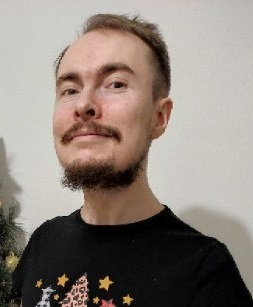
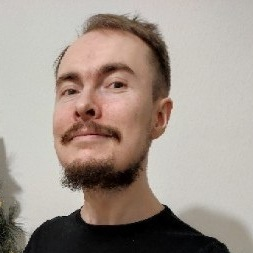
feat: add header styles

diff --git a/index.html b/index.html
@@ -5,10 +5,11 @@
     <meta http-equiv="X-UA-Compatible" content="IE=edge" />
     <meta name="viewport" content="width=device-width, initial-scale=1.0" />
     <title>Gadiyatov Anton cv</title>
+    <link rel="stylesheet" href="./css/main.css">
   </head>
   <body>
     <header class="header">
-      <figure><img src="./img/cv-photo.jpg" alt="cv photo"/></figure>
+      <figure class="header__photo"><img class="cv-photo" src="./img/cv-photo.jpg" alt="cv photo" /></figure>
       <div class="header__title">
         <h1>Anton Gadiyatov</h1>
         <p>Junior Front-end developer</p>

diff --git a/css/main.css b/css/main.css
@@ -1,0 +1,42 @@
+* {
+  box-sizing: border-box;
+}
+
+body {
+  width: 100%;
+  color: #363636;
+}
+
+.header {
+  display: flex;
+  width: 90%;
+  margin-right: auto;
+  margin-left: auto;
+}
+
+.header__photo {
+  display: flex;
+  justify-content: center;
+  padding-top: 20px;
+  padding-bottom: 20px;
+  width: 40%;
+  background-color: #2c323d;
+}
+
+.cv-photo {
+  border-radius: 50%;
+}
+
+.header__title {
+  width: 60%;
+  padding-top: 50px;
+  padding-left: 20px;
+}
+
+.header__title h1 {
+  font-size: 50px;
+}
+
+.header__title p {
+  font-size: 25px;
+}
